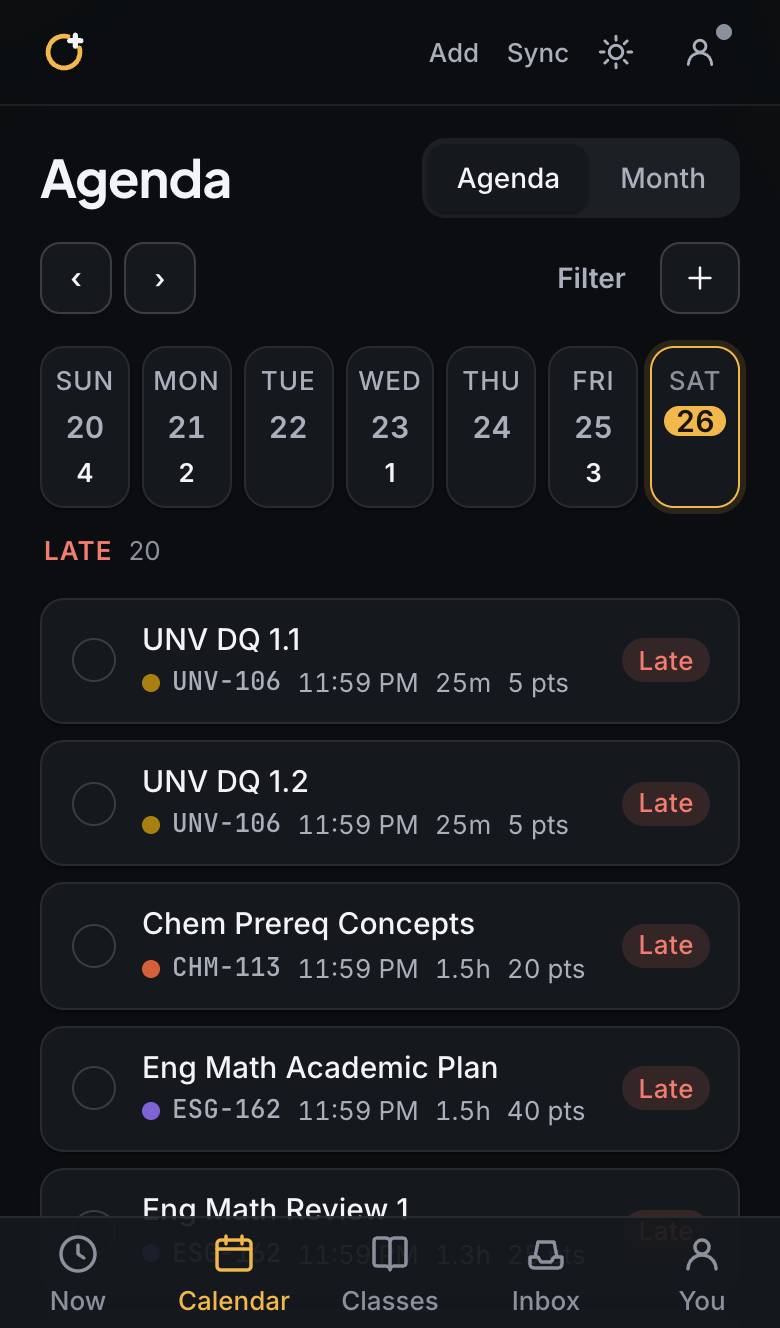
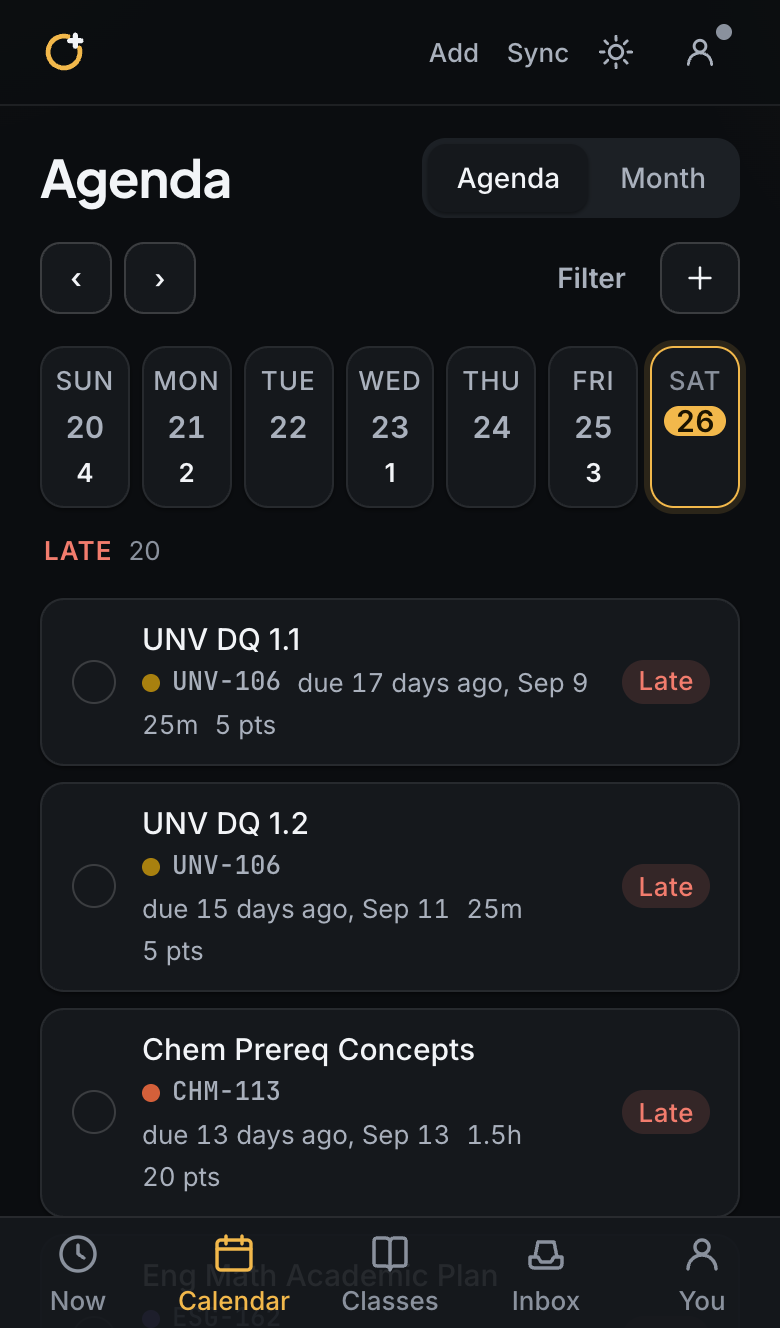
Loop 56: late rows on the agenda carry their date

diff --git a/src/views/calendar/AgendaView.tsx b/src/views/calendar/AgendaView.tsx
@@ -66,7 +66,7 @@ export function AgendaView({ from, items: raw, onOpen }: { from: DateStr; items:
           </div>
           <ul className="item-list">
             {overdue.map((i) => (
-              <AgendaItem key={i.id} item={i} open={expanded === i.id} onToggle={() => toggle(i.id)} onOpen={onOpen} tz={tz} today={today} />
+              <AgendaItem key={i.id} item={i} open={expanded === i.id} onToggle={() => toggle(i.id)} onOpen={onOpen} tz={tz} today={today} dated />
             ))}
           </ul>
         </section>
@@ -126,7 +126,7 @@ export function AgendaView({ from, items: raw, onOpen }: { from: DateStr; items:
 }
 
 /** One collapsed row; open, it shows the parts to tick, the notes, and what it unlocks. */
-function AgendaItem({ item, open, onToggle, onOpen, tz, today }: { item: Item; open: boolean; onToggle: () => void; onOpen: (i: Item) => void; tz: string; today: DateStr }) {
+function AgendaItem({ item, open, onToggle, onOpen, tz, today, dated = false }: { item: Item; open: boolean; onToggle: () => void; onOpen: (i: Item) => void; tz: string; today: DateStr; /** Under Late the day heading is gone, so the row carries its own date. */ dated?: boolean }) {
   const { actions, data, schedule } = useStore();
   const parts = instanceParts(item);
   const notes = referenceParts(item);
@@ -139,7 +139,7 @@ function AgendaItem({ item, open, onToggle, onOpen, tz, today }: { item: Item; o
 
   return (
     <li className="agenda-item" data-open={open}>
-      <ItemRow item={item} onOpen={hasMore ? () => onToggle() : onOpen} dateless compact progress={parts.length > 0 ? { done: parts.length - todo.length, total: parts.length } : null} />
+      <ItemRow item={item} onOpen={hasMore ? () => onToggle() : onOpen} dateless={!dated} compact progress={parts.length > 0 ? { done: parts.length - todo.length, total: parts.length } : null} />
       {open && (
         <div className="agenda-detail">
           {todo.length > 0 && (

diff --git a/LOOP_LOG.md b/LOOP_LOG.md
@@ -72,3 +72,4 @@ One line per change, newest last. Proposals that need George's approval are mark
 - 2026-09-26 · Loop 53 · Accessibility: measured every text ink against the page and card. The light-theme grey hint ink was 4.45:1 on the page and the amber warning text 3.94:1, both under the 4.5:1 the tokens promise; two steps darker each (#69717F, #A4600D) puts them at 4.6:1 with no visible change in tone. Everything else, including both golds, clears with room.
 - 2026-09-26 · Loop 54 · Words: the Syllabi panel under You → Advanced said "Reference only: assignments and dates come from the Halo export, never from here", which contradicted the AI read that uses the syllabus for start dates and prep steps. It now says what the syllabus actually feeds (AI read, date check, coach) and that due dates always come from Halo.
 - 2026-09-26 · Loop 55 · Bug: Now only re-read the clock when something else re-rendered it, so in a tab left open an 8 AM deadline passing (or midnight arriving on a quiet screen) did not flip "due today" to "late" until a tap. Now ticks once a minute.
+- 2026-09-26 · Loop 56 · The agenda's Late group showed each row as "11:59 PM" with no date (rows under a day heading do not need one; rows under Late span weeks). Late rows now say "due 13 days ago, Sep 13".
